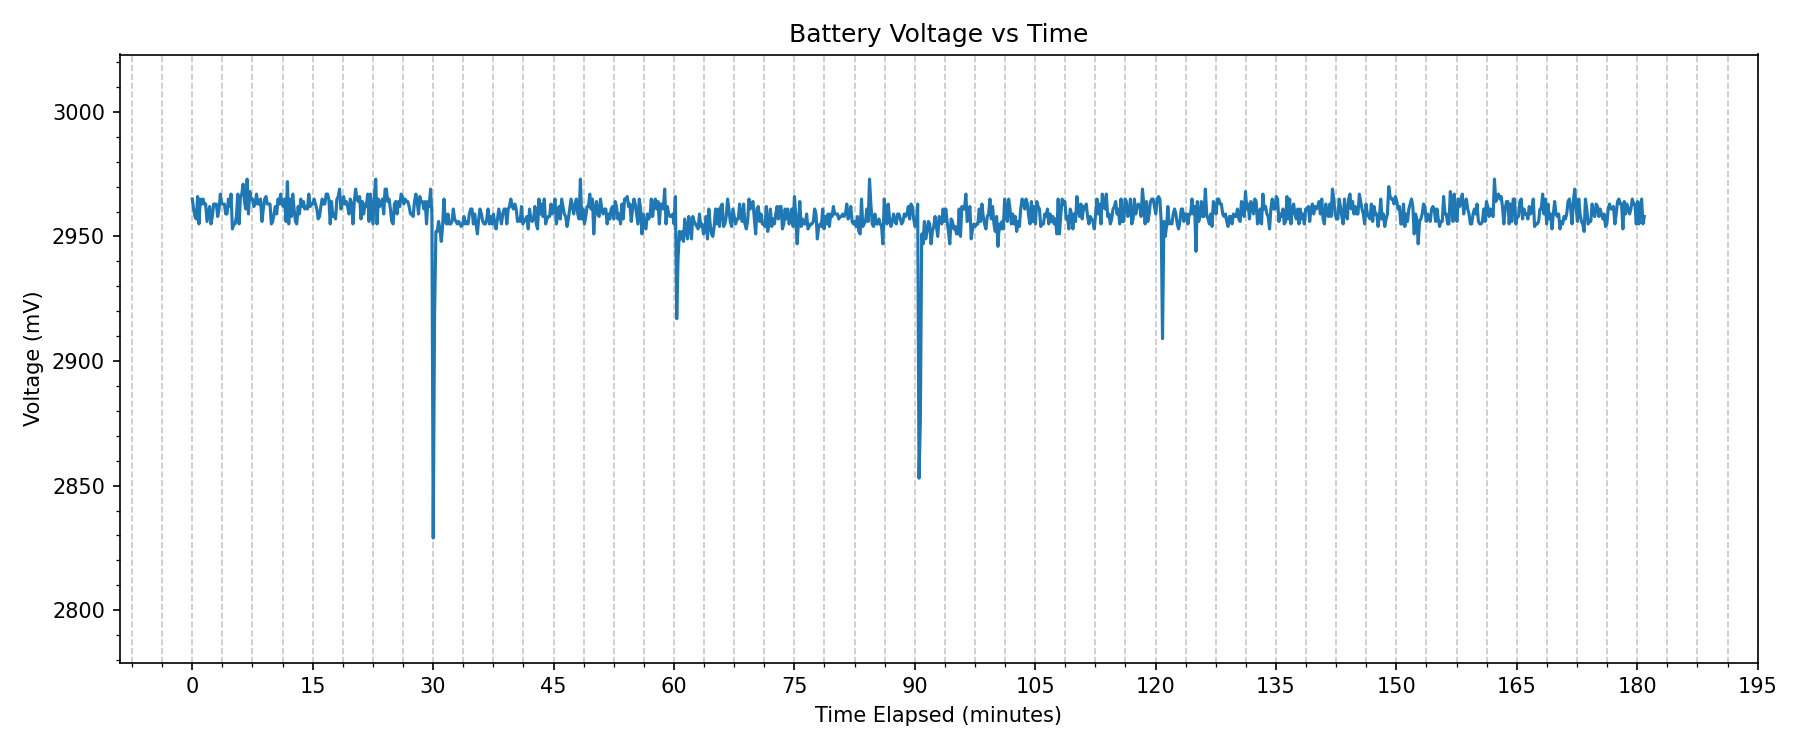
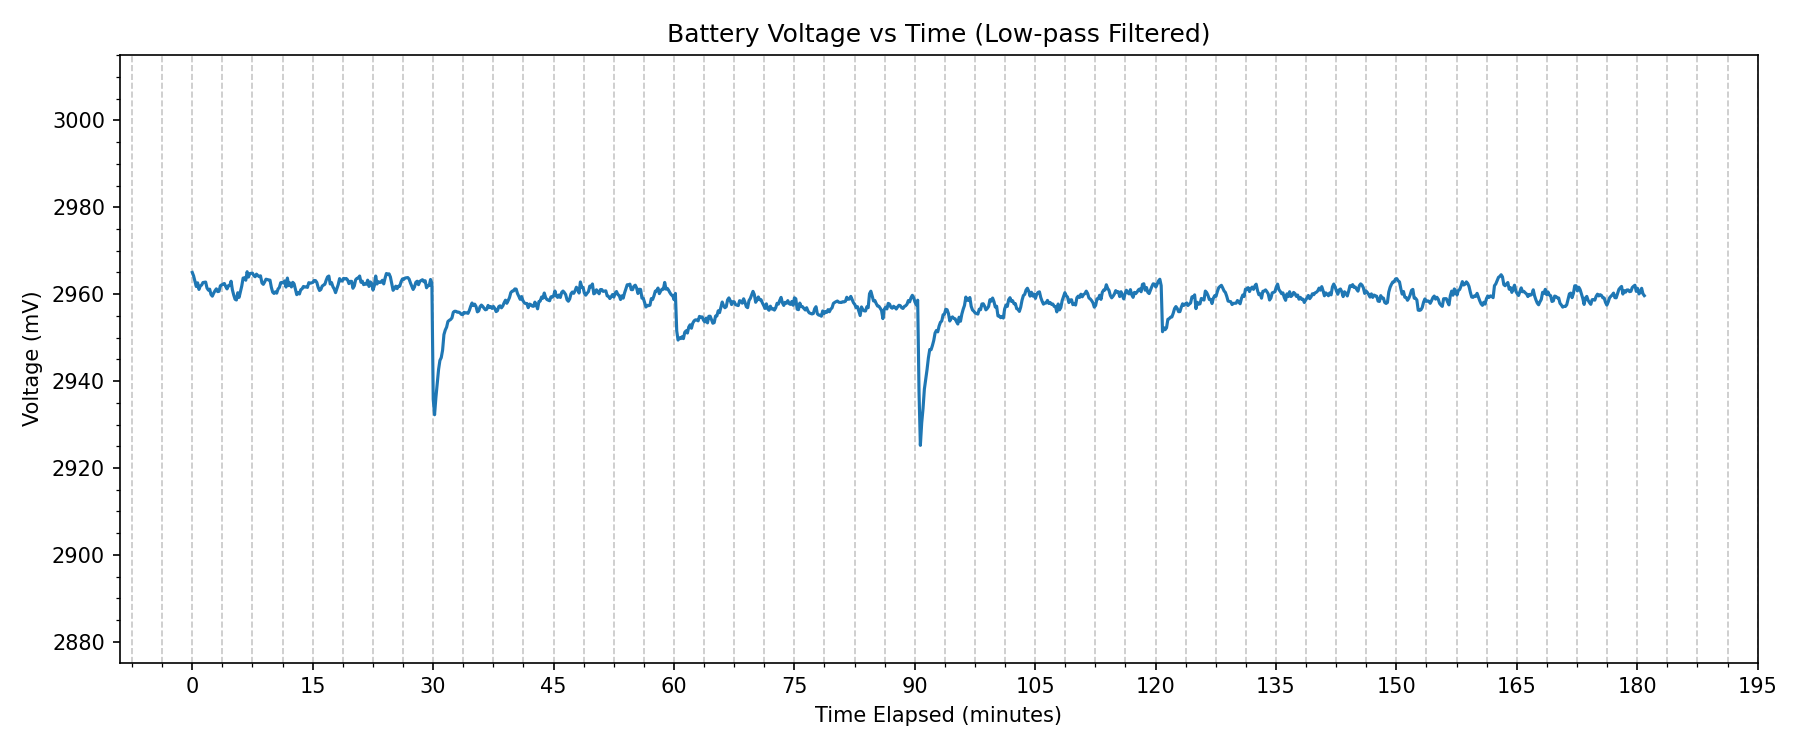
low pass filter added:

diff --git a/relax_data_parser.py b/relax_data_parser.py
@@ -7,6 +7,10 @@ import os
 from datetime import datetime
 import numpy as np
 
+# Configurable flag for low-pass filtering
+APPLY_LOW_PASS_FILTER = True  # Set to False to disable filtering
+
+
 def main():
     print("Paste the CSV (with columns: timestamp,batt_mV), then press Enter then Ctrl+D (macOS/Linux) or Ctrl+Z then Enter (Windows):\n")
     raw_input = sys.stdin.read()
@@ -45,24 +49,39 @@ def main():
     df.to_csv(out_csv_copy, index=False)
     print(f"Saved parsed CSV copy to: {out_csv_copy}")
 
+    if APPLY_LOW_PASS_FILTER:
+        RELAXATION_LOW_PASS_FILTER_ALPHA = 0.2  # Adjust alpha as needed (0 < alpha < 1)
+        filtered = []
+        prev = df["batt_mV"].iloc[0]
+        for v in df["batt_mV"]:
+            filtered_v = RELAXATION_LOW_PASS_FILTER_ALPHA * v + (1.0 - RELAXATION_LOW_PASS_FILTER_ALPHA) * prev
+            filtered.append(filtered_v)
+            prev = filtered_v
+        df["batt_mV_filtered"] = filtered
+        voltage_col = "batt_mV_filtered"
+        plot_label = "Filtered Voltage"
+        plot_title = "Battery Voltage vs Time (Low-pass Filtered)"
+    else:
+        voltage_col = "batt_mV"
+        plot_label = "Raw Voltage"
+        plot_title = "Battery Voltage vs Time (Raw)"
+
     plt.figure(figsize=(12, 5))
-    # Change x-axis to minutes
     df["Time Elapsed (minutes)"] = (df["timestamp"] - start_ts) / 60.0
-    plt.plot(df["Time Elapsed (minutes)"], df["batt_mV"])
-    plt.title("Battery Voltage vs Time")
+    plt.plot(df["Time Elapsed (minutes)"], df[voltage_col], label=plot_label)
+    plt.title(plot_title)
     plt.xlabel("Time Elapsed (minutes)")
     plt.ylabel("Voltage (mV)")
     plt.grid(True, which='both', axis='x', linestyle='--', alpha=0.7)
     plt.minorticks_on()
 
-    # Set x-ticks to align with 15, 30, 45, etc.
     min_minute = int(np.floor(df["Time Elapsed (minutes)"].min() / 15) * 15)
     max_minute = int(np.ceil(df["Time Elapsed (minutes)"].max() / 15) * 15)
     plt.xticks(np.arange(min_minute, max_minute + 1, 15))
 
     try:
-        ymin = max(0, df["batt_mV"].min() - 50)
-        ymax = df["batt_mV"].max() + 50
+        ymin = max(0, df[voltage_col].min() - 50)
+        ymax = df[voltage_col].max() + 50
         plt.ylim(ymin, ymax)
     except Exception:
         pass
